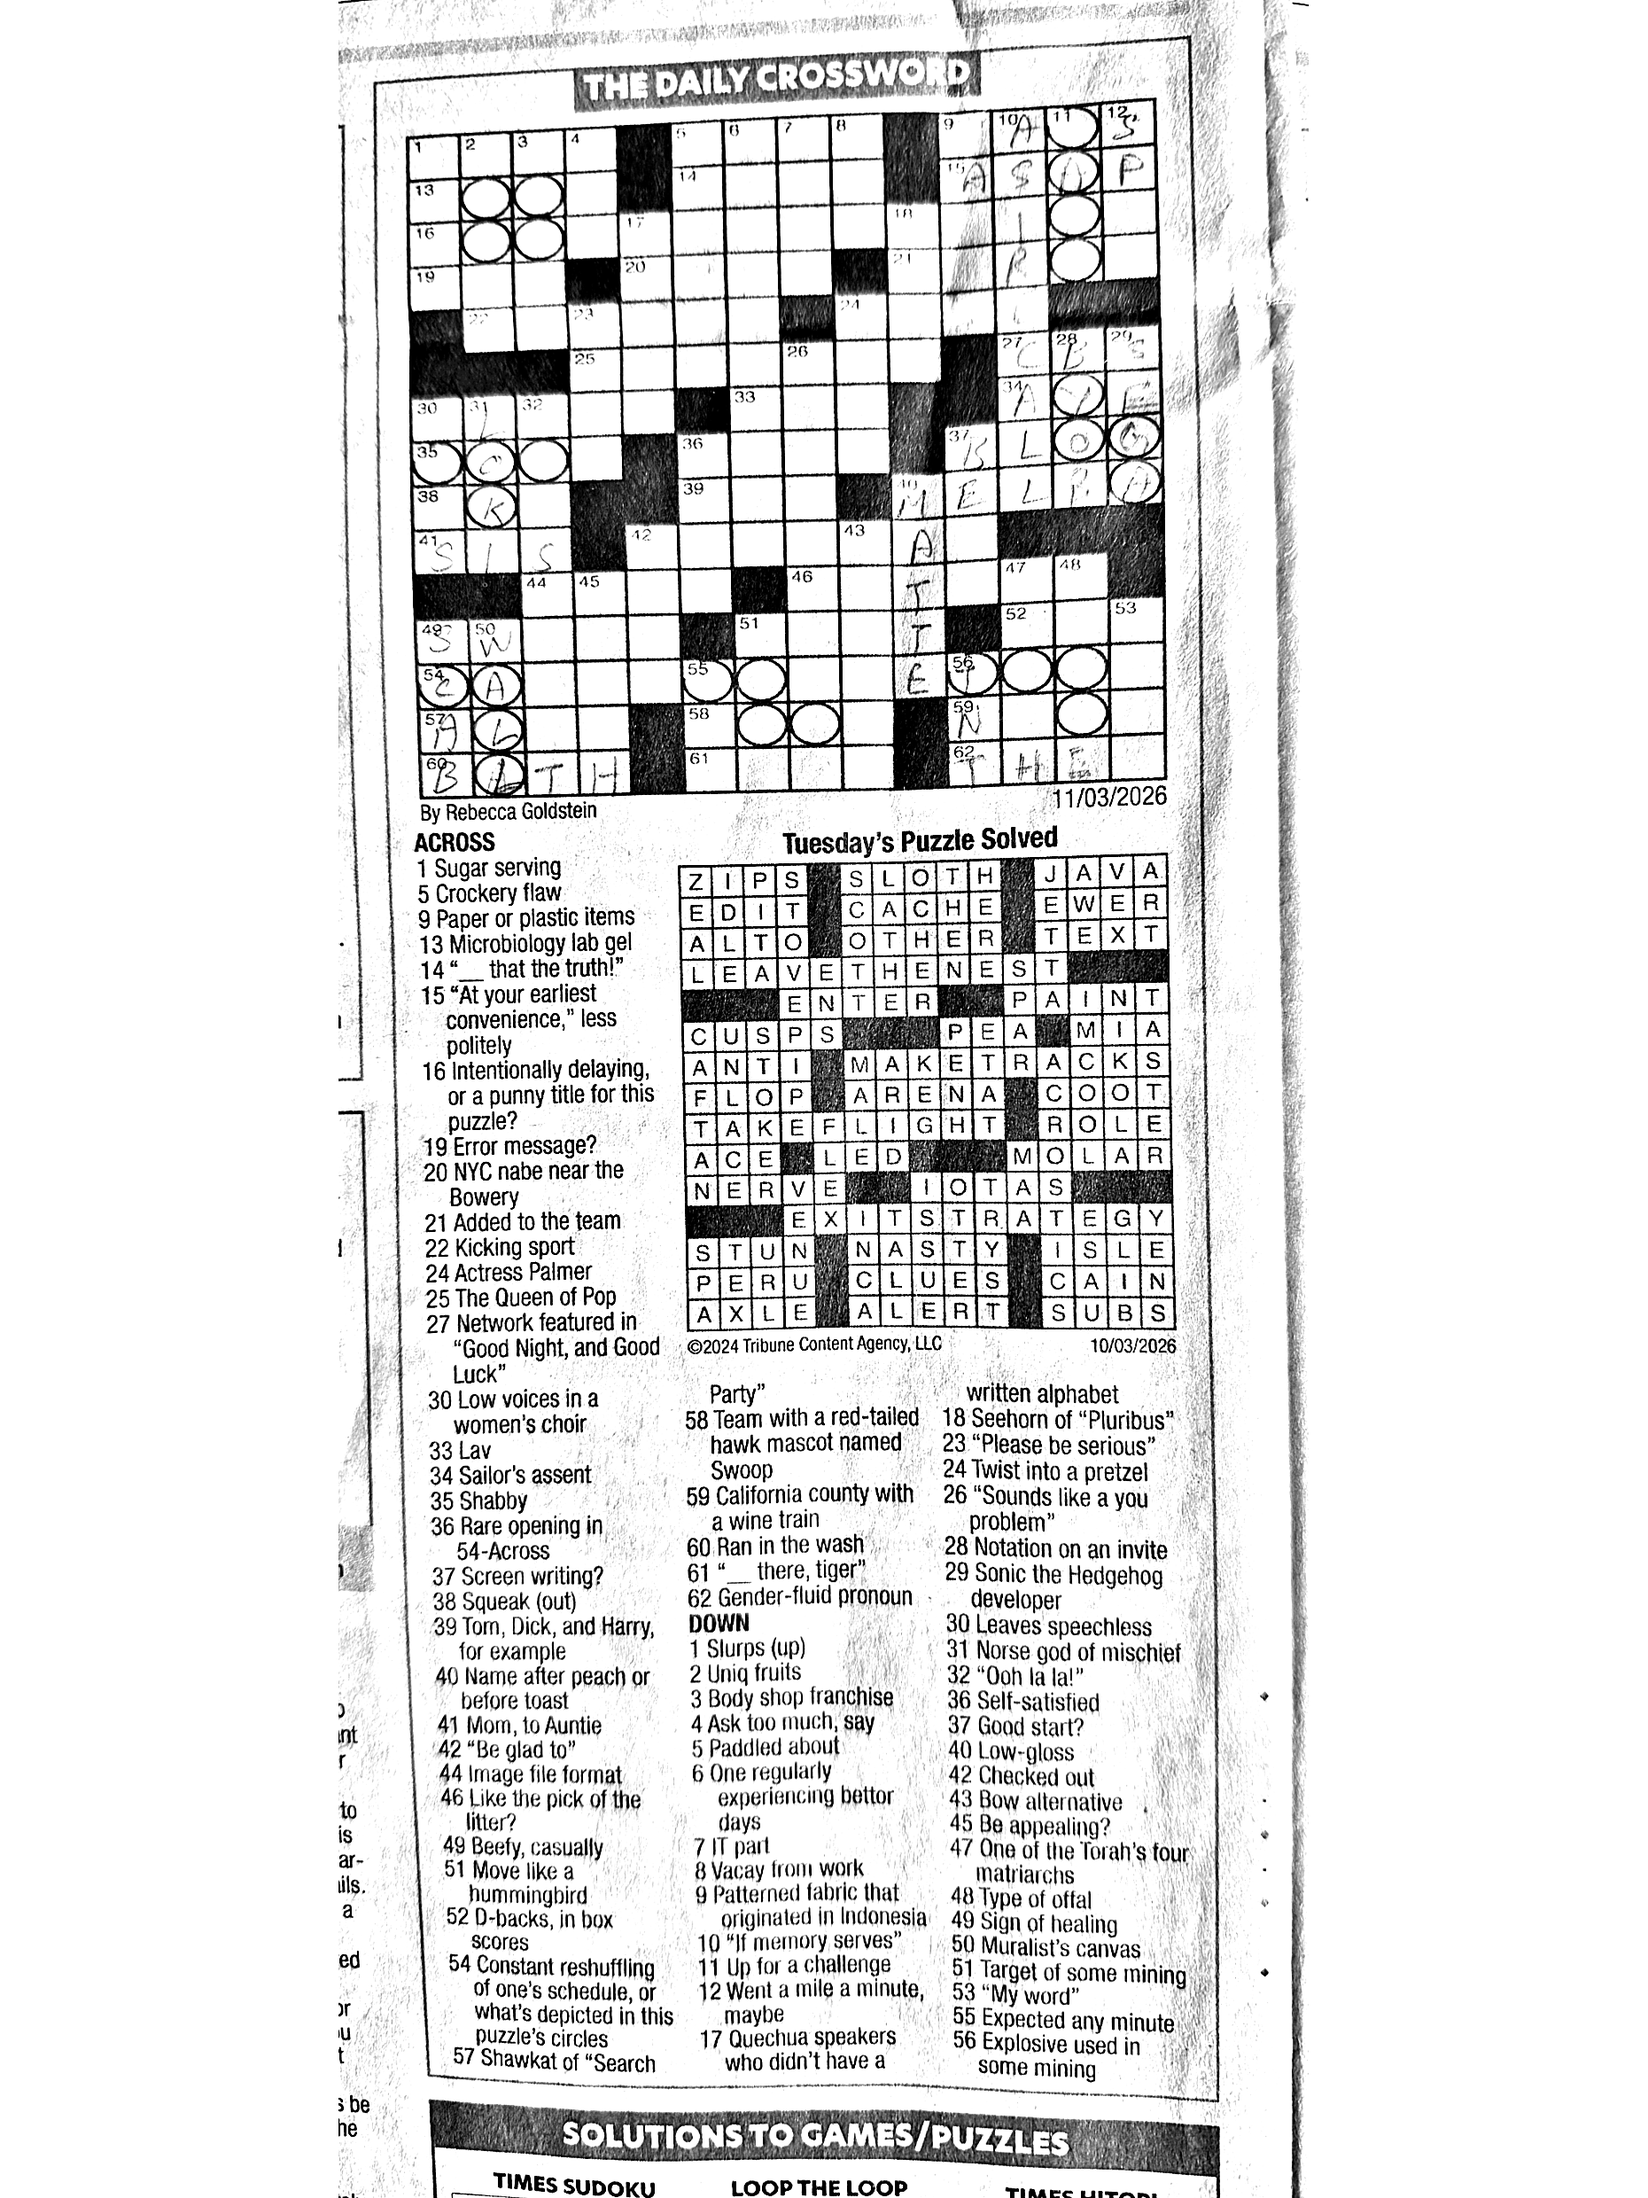
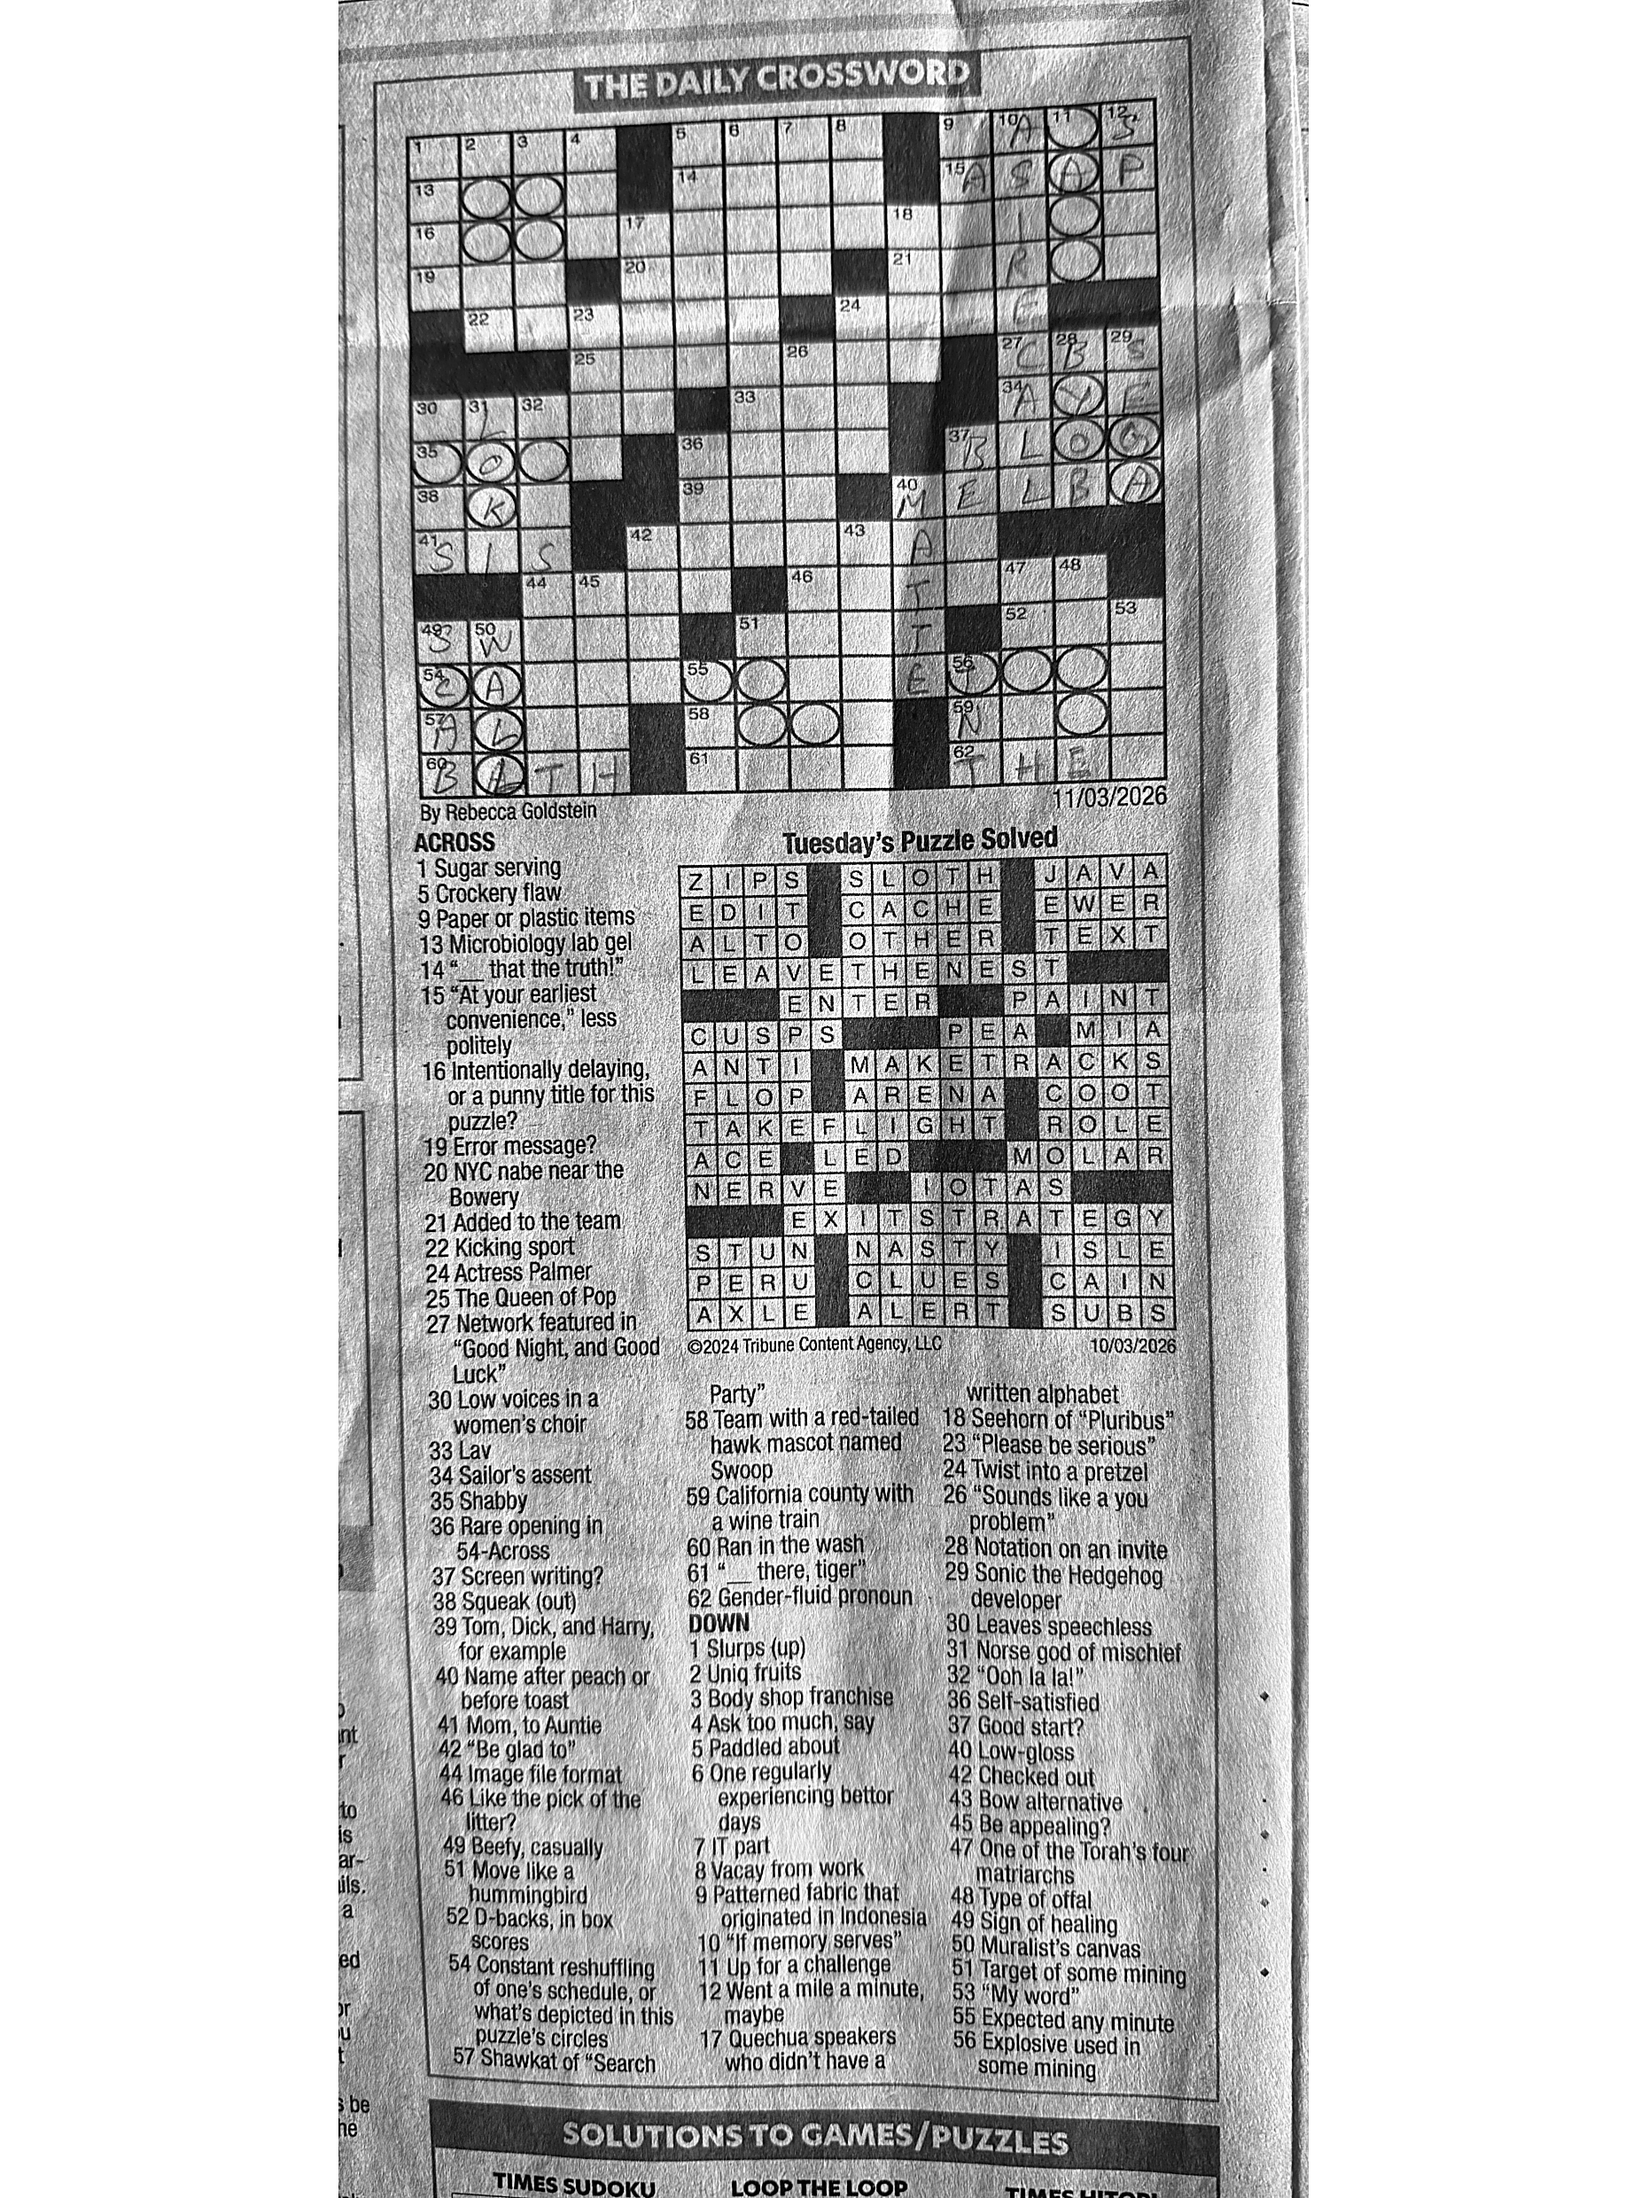
Match kindle output to stored grayscale: CLAHE(1.0) + sharpen(1.2)
Reverse-engineered the exact settings that produced the good _grayscale.png
files: CLAHE clipLimit=1.0 with 8x8 tiles, then resize, then UnsharpMask
at 1.2. No background normalization — that was washing out the image.

Result: mean pixel difference of 2.5 from stored grayscale (essentially identical).

https://claude.ai/code/session_01BaJXRtzuHPrvpeiTFP3pVD

diff --git a/kindle-crossword/app/image_processor.py b/kindle-crossword/app/image_processor.py
@@ -45,17 +45,17 @@ def process_image(input_path: str, output_path: str, options: dict) -> dict:
 
     img = _to_grayscale(img)
 
-    # Background normalization: removes shadows, uneven lighting, newspaper tint.
-    # Divides by a heavily blurred copy to flatten background to white while
-    # preserving text/lines as dark.
-    img = _normalize_background(img)
+    # Gentle local contrast enhancement — just enough to even out lighting
+    # without washing out the image. clipLimit=1.0 is very conservative.
+    clahe = cv2.createCLAHE(clipLimit=1.0, tileGridSize=(8, 8))
+    img = clahe.apply(img)
 
     # Resize for Kindle
     target = options.get("kindle_model", "scribe")
     img = _resize_for_kindle(img, target)
 
     # Sharpen for e-ink clarity
-    sharpness = options.get("sharpness", 1.5)
+    sharpness = options.get("sharpness", 1.2)
     pil_img = _sharpen(img, sharpness)
 
     metadata["processed_size"] = pil_img.size
